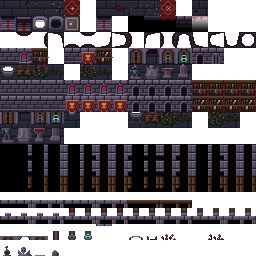
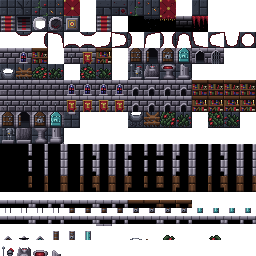
흡혈귀의 성·지하 묘지 타일을 칸마다 새로 찍음, 몹 정보 창 그림 깜빡임 수정
- 성(13~15층): 청회색 판석 바닥과 보랏빛 마름돌 벽(갓돌), 이음매 없는 금실 마름모 카펫,
  돌 틈 이끼와 시든 꽃잎, 뾰족 아치 스테인드글라스 창·성배 태피스트리, 뾰족 아치 참나무 문,
  갑옷 석상·군주 석상·핏물 성수반·부러진 기둥·가시 장미 덤불·책장 등 모든 칸을 손으로 다시 찍음
- 지하 묘지(11~12층): 회녹색 막돌 벽, 흙빛 판석, 해골 감실·비문, 유골 벽감, 묘석(칼·해골),
  뼈·이끼·버섯, 거미줄 커튼, 애도하는 석상·돌관·해골 무더기, 쇠창살 들창 문
- 문 위 겹침을 원작처럼 벽 띠를 끊고 아치 머리만 보이게 바꿔, 아래쪽 벽의 문이 상자처럼 보이던 것 고침
- 촛대·화로 소품과 빛 기믹은 그대로 둠
- 피의 사제·구울 놀·피 거미: 그림을 바꾼 뒤 첫 프레임을 다시 잡지 않아 정보 창에서
  그림 판 전체가 보였다 사라지고 이름·체력 줄이 밀려나던 문제 수정
- 성의 풀 설명을 새 그림(이끼+꽃잎)에 맞춤

Claude-Session: https://claude.ai/code/session_01APSKFNB8xpLfNtbCfNBsyA

diff --git a/core/src/main/java/com/shatteredpixel/shatteredpixeldungeon/sprites/VampireCastleSprites.java b/core/src/main/java/com/shatteredpixel/shatteredpixeldungeon/sprites/VampireCastleSprites.java
@@ -41,6 +41,9 @@ public class VampireCastleSprites {
 			TextureFilm frames = new TextureFilm( texture, 12, 15 );
 			crumple = new Animation( 12, false );
 			crumple.frames( frames, 8, 9, 10 );
+			//texture()가 그림 전체를 한 장으로 되돌려 놓으므로 첫 프레임을 다시 잡음
+			// (안 하면 몹 정보 창에서 그림 판 전체가 잠깐 보였다 사라지고, 이름·체력 줄이 밀려남)
+			play( idle, true );
 		}
 
 		//쓰러졌지만 아직 죽지 않음 (사라지지 않고 바닥에 남음)
@@ -62,6 +65,7 @@ public class VampireCastleSprites {
 		public BloodPriest(){
 			super();
 			texture( Assets.Sprites.VC_BLOOD_PRIEST );
+			play( idle, true );
 		}
 	}
 
@@ -69,6 +73,7 @@ public class VampireCastleSprites {
 		public BloodSpider(){
 			super();
 			texture( Assets.Sprites.VC_BLOOD_SPIDER );
+			play( idle, true );
 		}
 	}
 
